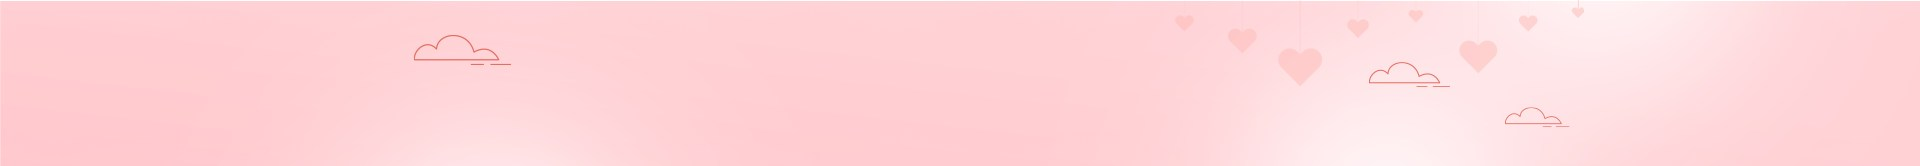
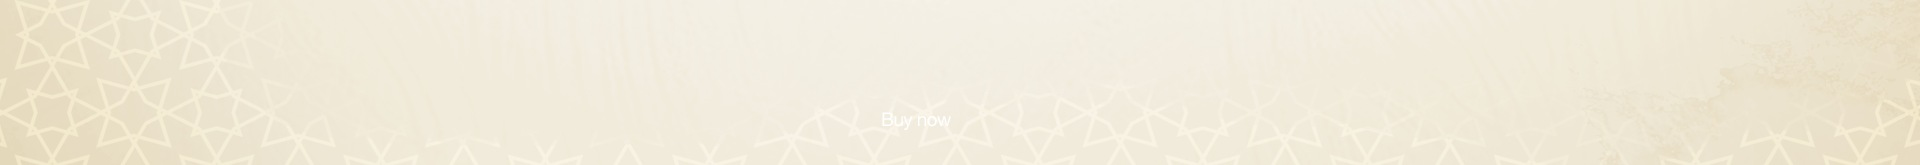
changes for Ramadan Kareem

diff --git a/src/app/home/homepage/homepage.component.html b/src/app/home/homepage/homepage.component.html
@@ -1,22 +1,25 @@
 <div class="first_fold">
     <div class="home-slider slider-bg-{{currentSetting?.country?.CountryId}}">
-            <!-- <div class="diwali_strip" >
+            <div class="diwali_strip" >
               <div class="viyaFireworWrap">
-                <div class="viyaWrap">
+                <div class="viyaWrap" *ngIf="currentSetting?.country?.CountryId != 3">
                   <img src="../../../assets/images/home_banner_new/promo/left.webp" />
+                </div>
+                <div class="viyaWrap" *ngIf="currentSetting?.country?.CountryId == 3">
+                  <img class="viyaWrapUK" src="../../../assets/images/home_banner_new/promo/left-UK.webp" />
                 </div>
                 <div class="diwaliPromoText" *ngIf="currentSetting?.country?.CountryId != 3">
                   <div>
-                    <p>Happy Valentines Day</p>
+                    <p>Ramadan Kareem</p>
                     <h3>Get upto 20% bonus mins</h3>
                   </div>
                   <a (click)="onopenchristmas(typedEl)" class="dPromoBtn">Buy now</a>
                 </div>
-                <div class="fireworksWrap" *ngIf="currentSetting?.country?.CountryId == 3">
+                <!-- <div class="fireworksWrap" *ngIf="currentSetting?.country?.CountryId == 3">
                   <img src="../../../assets/images/home_banner_new/promo/right.webp" />
-                </div>
+                </div> -->
               </div>
-            </div>   -->
+            </div>  
 
             <splide [options]="{ type: 'loop', autoplay: sliderAutoplay, lazyLoad: 'true'  }">
             <!-- <splide-slide>

diff --git a/src/app/home/homepage/homepage.component.scss b/src/app/home/homepage/homepage.component.scss
@@ -941,21 +941,21 @@ a {
         height: 170px;
     }
     .diwaliPromoText {
-          color: #57283b;
+          color: #945e23;
         //   text-align: center;
           p {
             margin: 0 0 4px;
-            font-weight: 500;
+            font-weight: 600;
           }
           h3 {
-            font-weight: 600;
+            font-weight: 700;
             font-size: 25px;
             @media only screen  and (max-width: 600px) {
               font-size: 18px;
             }
           }
           .dPromoBtn {
-            background: #ec5e66;
+            background: #595959;
             padding: 3px 15px;
             font-size: 15px;
             color: #fff;
@@ -971,7 +971,13 @@ a {
       .viyaWrap {
           margin-right: 50px;
           img {
-            width: 200px;
+            width: 178px;
+            &.viyaWrapUK {
+                width: 385px;
+                @media only screen  and (max-width: 600px) {
+                    width: 300px;
+                }
+            }
           }
       }
       .fireworksWrap {
